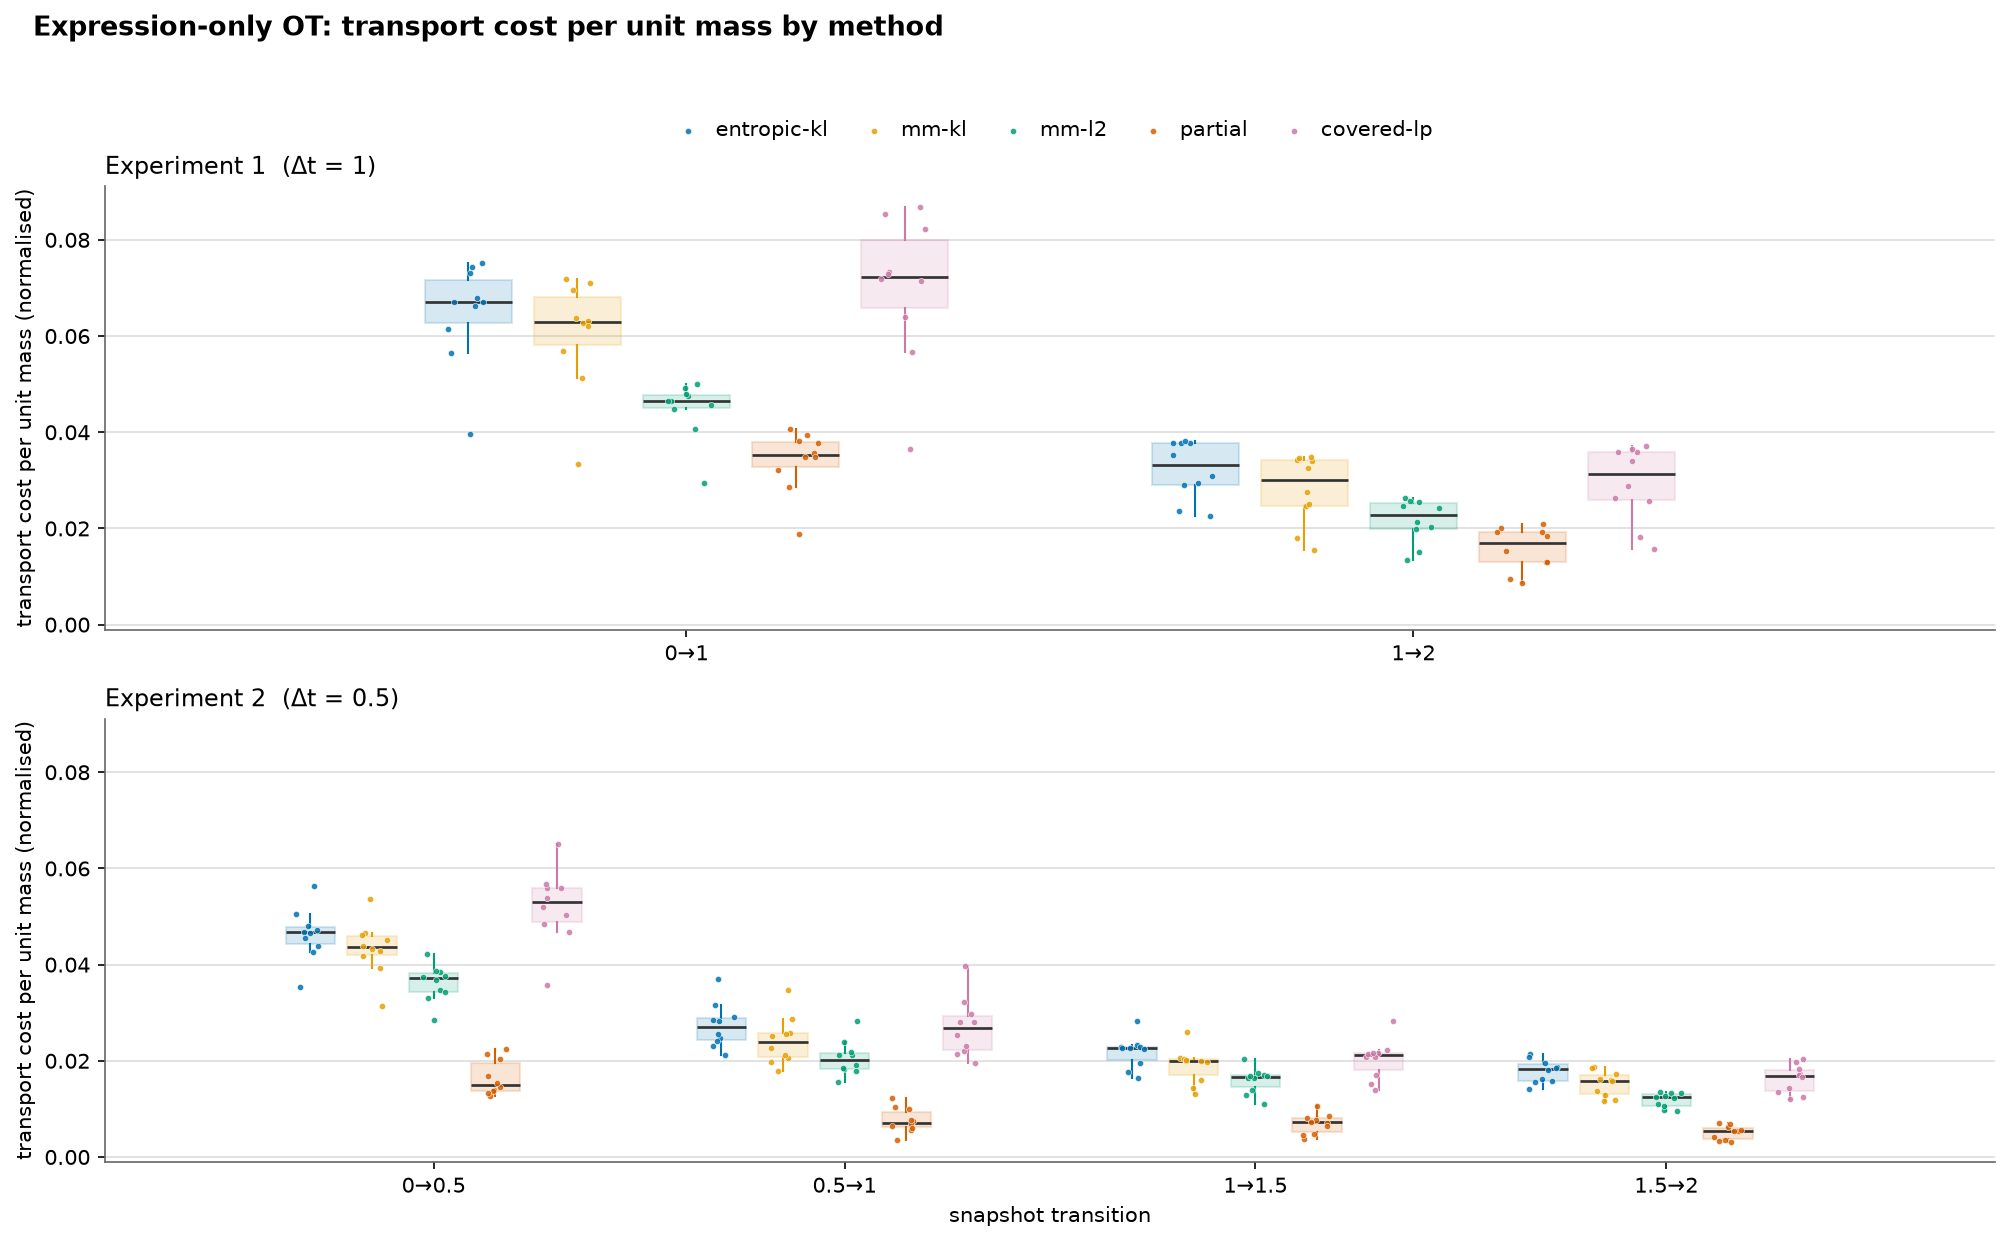
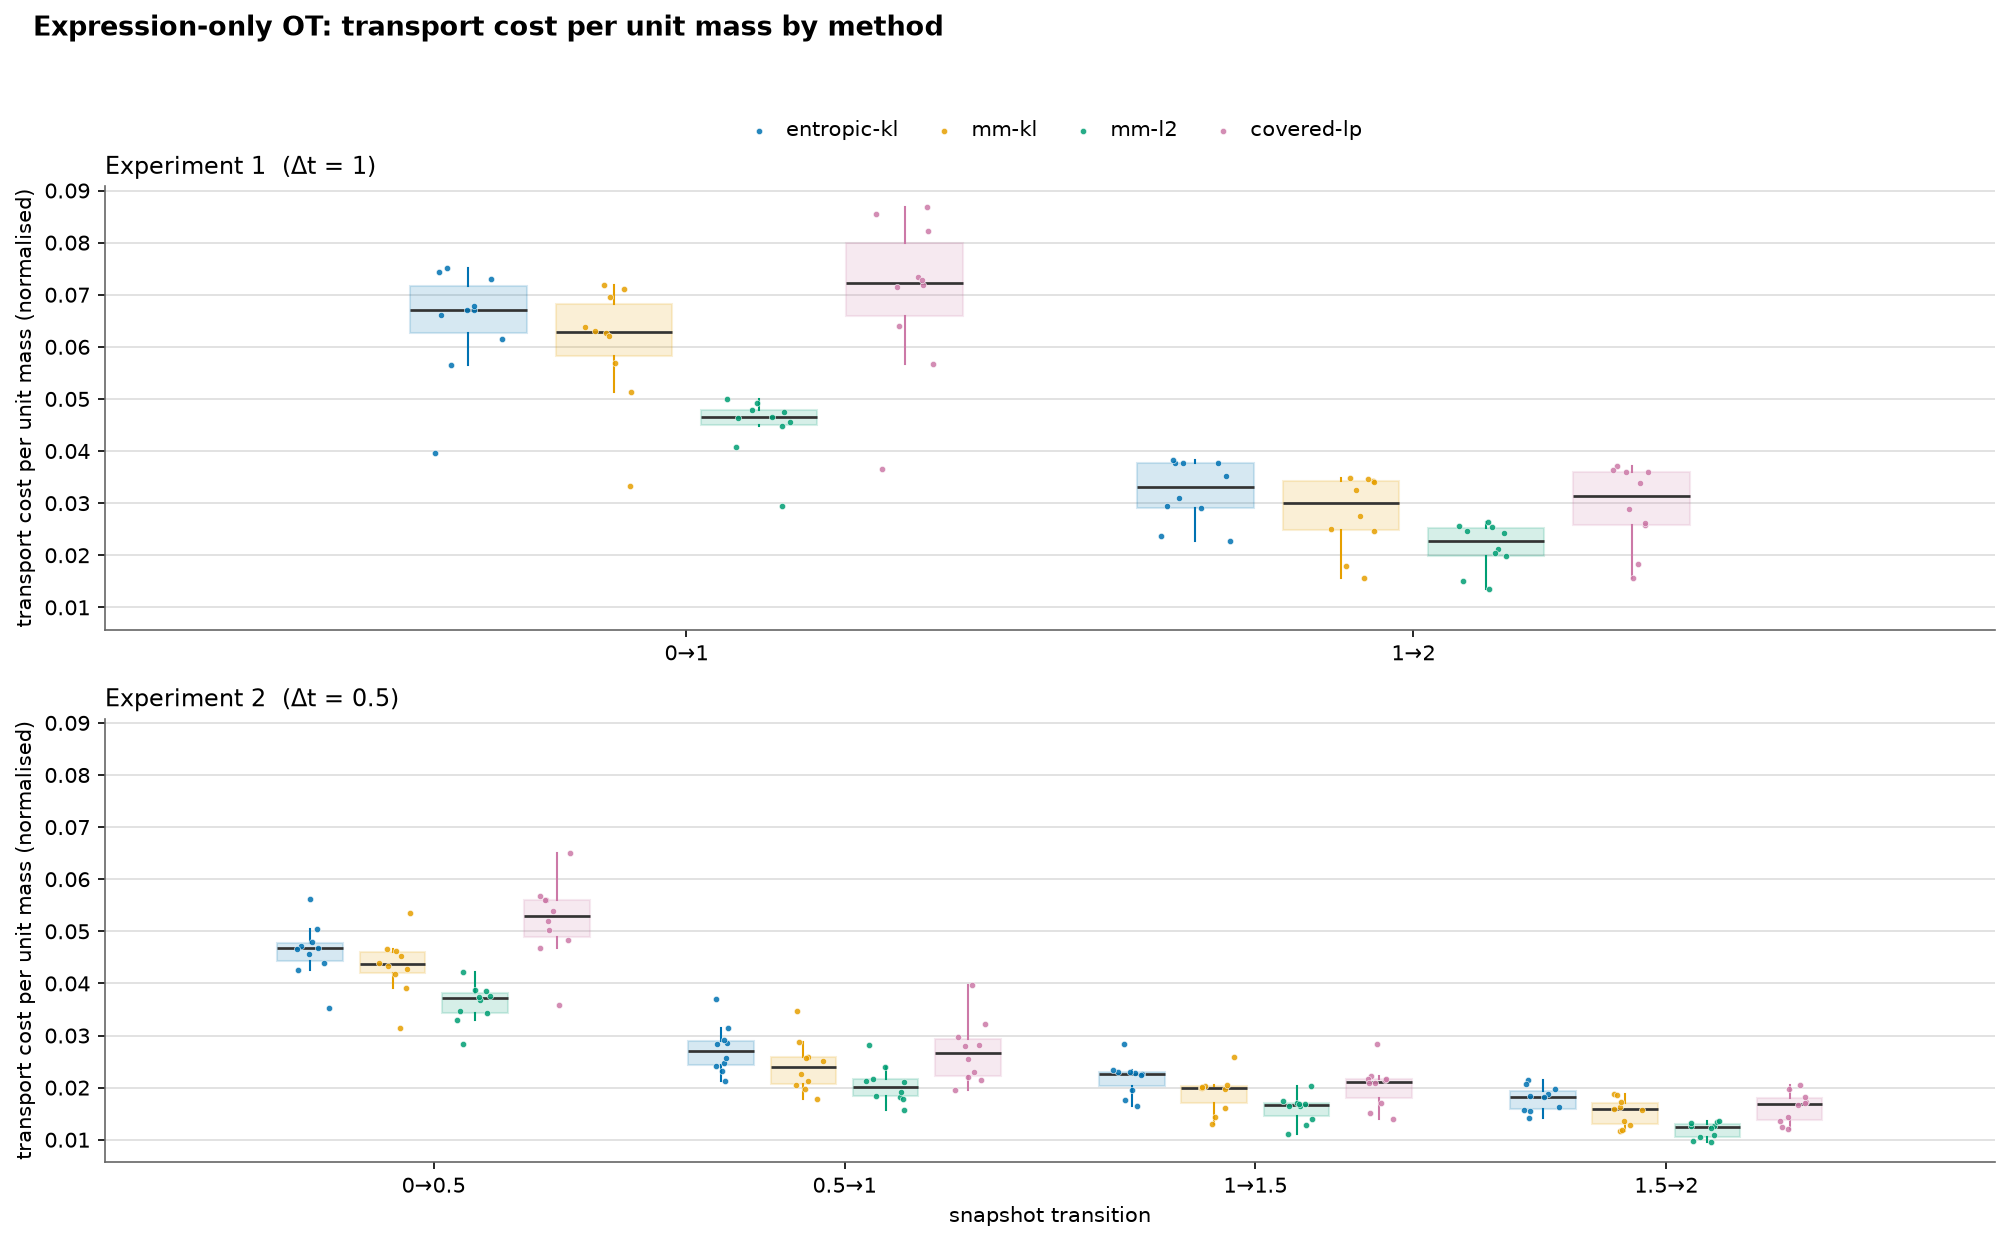
Drop partial OT from the expression-only experiment and its figure
Removes the "partial" method (ot.partial.partial_wasserstein) from
ot_expression_experiment.py and plot_fig1_expr.py, and regenerates the
ot_expr results/figures without it.

diff --git a/src/ot_expression_experiment.py b/src/ot_expression_experiment.py
@@ -40,9 +40,8 @@ EXP_TIMES = {"exp1": [0.0, 1.0, 2.0], "exp2": [0.0, 0.5, 1.0, 1.5, 2.0]}
 REG = 0.005          # entropic regularisation (on cost normalised to max 1)
 REG_M_KL = [0.01, 0.5 ]  # marginal relaxation, KL: (a small / source loose, b large / target strict)
 REG_M_L2 = [1.0, 50.0 ]  # marginal relaxation, L2: (a small / source loose, b large / target strict)
-MASS = 0.7           # transported mass for partial OT
 
-METHODS = ["entropic-kl", "mm-kl", "mm-l2", "partial", "covered-lp"]
+METHODS = ["entropic-kl", "mm-kl", "mm-l2", "covered-lp"]
 SPARSE_TOL = 1e-6    # keep coupling entries above SPARSE_TOL * max in the CSV
 
 
@@ -125,7 +124,6 @@ def compute_couplings(es, et):
         "entropic-kl": ot.unbalanced.sinkhorn_unbalanced(a, b, M, REG, REG_M_KL),
         "mm-kl": ot.unbalanced.mm_unbalanced(a, b, M, REG_M_KL, div="kl"),
         "mm-l2": ot.unbalanced.mm_unbalanced(a, b, M, REG_M_L2, div="l2"),
-        "partial": ot.partial.partial_wasserstein(a, b, M, m=MASS),
         "covered-lp": covered_lp(M),
     }
     return couplings, M

diff --git a/src/plot_fig1_expr.py b/src/plot_fig1_expr.py
@@ -28,7 +28,6 @@ METHOD_ORDER = [
     ("entropic-kl", "#0072B2"),
     ("mm-kl", "#E69F00"),
     ("mm-l2", "#009E73"),
-    ("partial", "#D55E00"),
     ("covered-lp", "#CC79A7"),
 ]
 